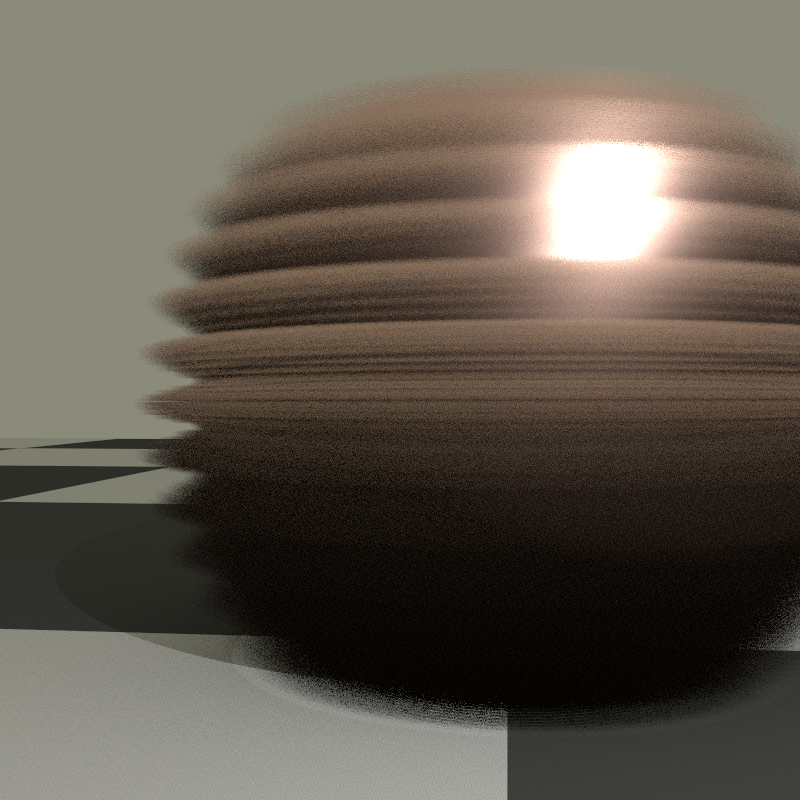
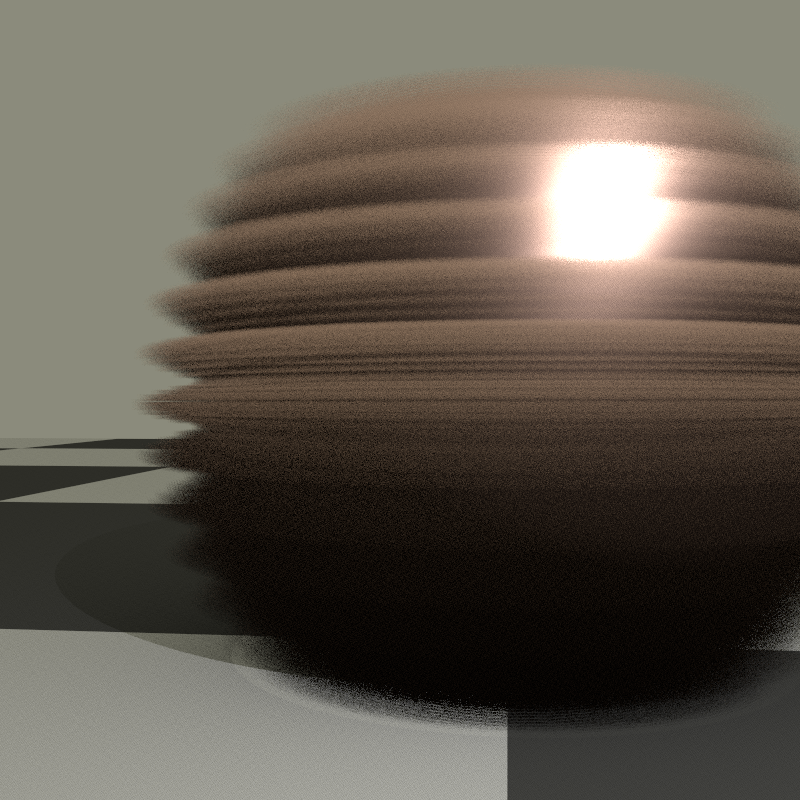
Report 01-05-23

Changed region(s): [[0.5, 0.875, 0.625, 0.9062], [0.9375, 0.75, 1.0, 0.8125], [0.4062, 0.8438, 0.5, 0.875]]

diff --git a/src/shapes/displacedsphere.cpp b/src/shapes/displacedsphere.cpp
@@ -56,15 +56,23 @@ bool DispSphere::Intersect(const Ray &r, Float *tHit, SurfaceInteraction *isect,
     bool hitDispRadius = hasIntersectedSphere(r, tHit, isect, testAlphaTexture, dispRadius);
     if (!hitDispRadius) return false;
 
-
     else {
-
         bool hit;
         Point2f pos2f;
-        Point3f normal;
+        Vector3f normal;
         float parallaxRadius;
         Float disp;
         int pos;
+
+        Float disp1, disp2, disp3, disp4;
+        float x, y, du1, dv1;
+        float a, b, val;
+
+        float c, d, duVal, dvVal;
+
+
+        
+
 
         // Parallax Mapping Algorithm
         for (int layer = parallaxLayers; layer >= 0; layer--){
@@ -73,10 +81,10 @@ bool DispSphere::Intersect(const Ray &r, Float *tHit, SurfaceInteraction *isect,
             // std::cout<<parallaxRadius<<std::endl;
 
             hit = hasIntersectedSphere(r, tHit, isect, testAlphaTexture, parallaxRadius);
-
+            if(!hit) return false;
             pos2f = isect->uv;
-            
-            pos = (float(resolution.y) * float(resolution.y) * pos2f.y) + (float(resolution.x) * pos2f.x);
+             
+            pos = int(float(resolution.y) * float(resolution.y) * pos2f.y) + int(float(resolution.x) * pos2f.x);
             //std::cout<<pos2f<<"||||"<<pos<<std::endl;
             disp = texels[pos][0];
 
@@ -89,7 +97,42 @@ bool DispSphere::Intersect(const Ray &r, Float *tHit, SurfaceInteraction *isect,
                 
 //                normal = isect->n
 
+                // Bilinear interpolation to find height at exact hit point
 
+                //normal = isect->n;
+
+                disp1 = texels[pos][0];
+                disp2 = texels[(pos + 1) % totalRes][0];
+                disp3 = texels[(pos + resolution.y) % totalRes][0];
+                disp4 = texels[(pos + resolution.y + 1) % totalRes][0];
+
+                x = pos2f.x * float(resolution.x);
+                y = pos2f.x * float(resolution.x);
+                du1 = x - int(x);
+                dv1 = y - int(y);
+
+                a = disp1 * (1- du1) + disp2 * (du1);
+                b = disp3 * (1- du1) + disp4 * (du1);
+                c = disp1 * (1- dv1) + disp3 * (dv1);
+                d = disp2 * (1- dv1) + disp4 * (dv1);
+                
+                val = a * (1 - dv1) + b * dv1;
+
+                Vector3f dpdu, dpdv;
+                Normal3f dndu, dndv;
+
+                dpdu = Cross(isect->dpdu, Vector3f(du1, 1, 1));
+                dpdv = Cross(isect->dpdv, Vector3f(1, dv1, 1));
+
+
+                dndu = Normal3f(Cross(Vector3f(dndu), Vector3f((val - a) / du1, 1, 1)));
+                dndv = Normal3f(Cross(Vector3f(dndv), Vector3f(1, (val - c) / dv1, 1)));
+
+/*
+                *isect = (*ObjectToWorld)(SurfaceInteraction(isect->p, isect->pError, isect->uv,
+                                            isect->wo, dpdu, dpdv, dndu, dndv,
+                                            isect->time, this));
+*/
                 return hit;
             }
         }
@@ -235,7 +278,8 @@ Interaction DispSphere::Sample(const Interaction &ref, const Point2f &u,
 
     // Compute surface normal and sampled point on sphere
     Vector3f nWorld =
-        SphericalDirection(sinAlpha, cosAlpha, phi, -wcX, -wcY, -wc);
+        SphericalDirection(sinAlpha, cosAlpha, phi, -wcX, -wcY, -wc);    
+
     Point3f pWorld = pCenter + radius * Point3f(nWorld.x, nWorld.y, nWorld.z);
 
     // Return _Interaction_ for sampled point on sphere
@@ -243,6 +287,8 @@ Interaction DispSphere::Sample(const Interaction &ref, const Point2f &u,
     it.p = pWorld;
     it.pError = gamma(5) * Abs((Vector3f)pWorld);
     it.n = Normal3f(nWorld);
+
+    
     if (reverseOrientation) it.n *= -1;
 
     // Uniform cone PDF.
@@ -278,6 +324,7 @@ void DispSphere::loadDispMap(){
 
 
     texels = ReadImage(dmapLoc, &resolution);
+    totalRes = resolution.x * resolution.y;
     // texels = ReadImage(dmapLoc, &resolution);
     if (!texels) {
         Warning("Creating a constant grey texture to replace \"%s\".",
@@ -287,6 +334,14 @@ void DispSphere::loadDispMap(){
         *rgb = RGBSpectrum(0.5f);
         texels.reset(rgb);
     }
+/*
+    std::unique_ptr<TextureMapping2D> map;
+
+    map.reset(new UVMapping2D);
+
+    d = new ImageTexture<Float, Float>(std::move(map), dmapLoc, false, 8.f, ImageWrap::Repeat, 1.f, true);
+*/
+  
 
     // std::cout<<resolution<<std::endl;
     
@@ -303,11 +358,13 @@ void DispSphere::generateDispMap(int x, int y, Float alpha, Float beta){
 
 
     resolution = Point2i(x, y);
+    totalRes = resolution.x * resolution.y;
+    
 
     // texels = new RGBSpectrum[x * y];
 
     // d(u,v) = (y/2)(1 + cos(a pi u) * sin(b pi v))
-    //Texture<Float> tex = CreateImageFloatTexture()
+    // Texture<Float> tex = CreateImageFloatTexture()
     /*
     for (int v = 0; v < y; v++){
         for (int u = 0; u < y; u++){

diff --git a/src/shapes/displacedsphere.h b/src/shapes/displacedsphere.h
@@ -69,7 +69,7 @@ class DispSphere : public Shape {
           dmapLoc(dmapLoc),
           parallaxLayers(parallaxLayers)  {
 
-
+            
             if(dmapLoc == "")
               generateDispMap();
             else
@@ -100,10 +100,12 @@ class DispSphere : public Shape {
     const Float dispRadius;
     int parallaxLayers;
     const std::string dmapLoc;
-
+    
 
     std::unique_ptr<RGBSpectrum[]> texels;
+    // ImageTexture<Float, Float> d;
     Point2i resolution;
+    int totalRes;
 
     void loadDispMap();
     

diff --git a/src/tests/shapes.cpp b/src/tests/shapes.cpp
@@ -9,7 +9,6 @@
 #include "sampling.h"
 #include "shapes/cone.h"
 #include "shapes/cylinder.h"
-#include "shapes/displacedsphere.h"
 #include "shapes/disk.h"
 #include "shapes/paraboloid.h"
 #include "shapes/sphere.h"
